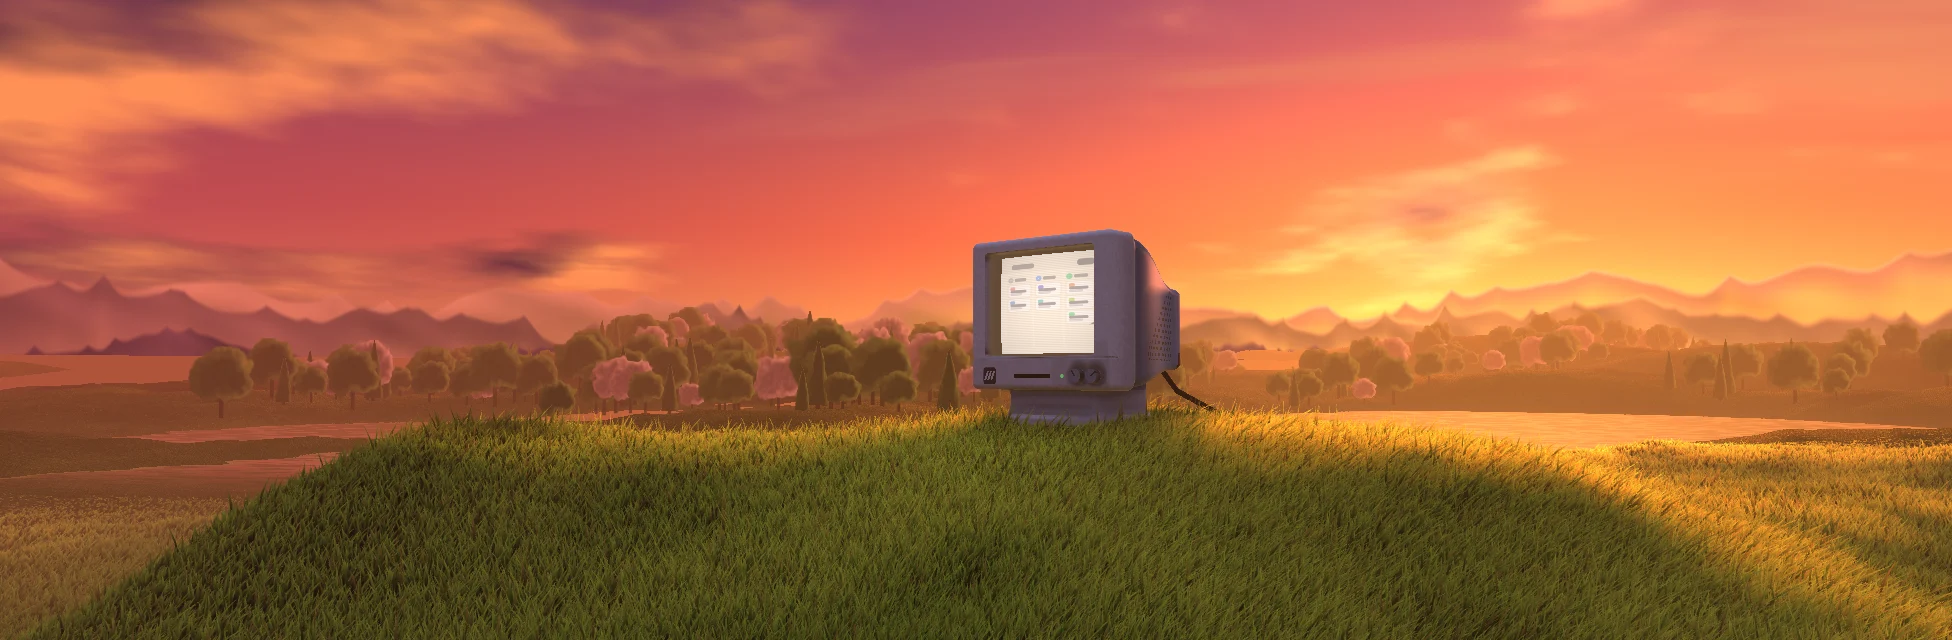
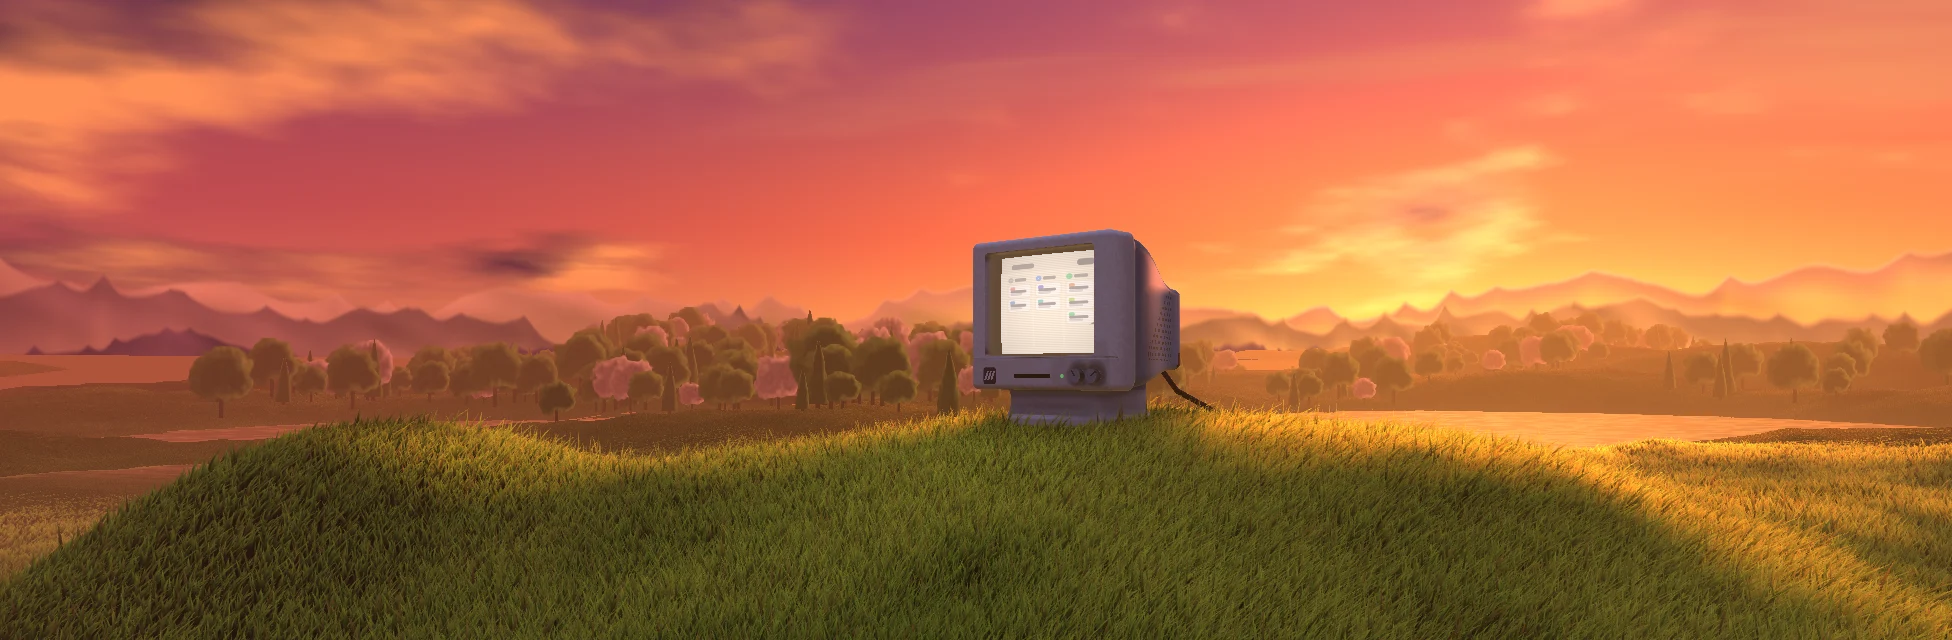
Acceso: la hierba de verdad crece sobre la imagen de espera en vez de fundirse con ella
La imagen de espera y la escena no pueden coincidir brizna a brizna, y el
fundido enseñaba dos hierbas distintas a la vez. Ahora la imagen se desvanece
por debajo de la hierba, que sale del suelo como un frente desde el ordenador.
Las imágenes se regeneran con el cerezo en una posición más habitual (-1.12),
para que la loma y la vaguada coincidan con las de la escena.

diff --git a/src/views/auth-scene.js b/src/views/auth-scene.js
@@ -1262,6 +1262,9 @@
     'layout(location = 3) in vec4 aB1;',
     'layout(location = 4) in vec4 aB2;',
     'uniform float uWide;',
+    /* Cuánto ha crecido la hierba (0..1): al relevar a la imagen de espera sale del suelo en */
+    /* vez de aparecer de golpe encima de la hierba de la imagen. */
+    'uniform float uGrow;',
     /* Raíz (altura), alto de la brizna y hacia dónde cae. */
     'out vec4 oA;',
     /* Sombra, contacto, racha y mata. */
@@ -1284,6 +1287,10 @@
     '  float rA = aInst.z, rB = aInst.w;',
     '  vec3 root = vec3(r0.x, aB0.x, r0.y);',
     '  float h = aB0.y, clump = aB1.x, dist = aB1.w;',
+    /* Sale por zonas, del ordenador hacia fuera, y no toda a la vez: unas briznas sueltas o a */
+    /* medio crecer enseñan el pie, que es oscuro, y el relevo se veía como un césped ralo y */
+    /* apagado tapando el de la imagen. Detrás del frente la hierba ya está entera. */
+    '  h *= smoothstep(0., .2, uGrow * 1.3 - min(length(r0) / 30., 1.) - .1 * fract(rB * 5.3));',
     /* De lejos las briznas se ensanchan para seguir cubriendo con menos. */
     '  float w = (.0046 + .0032 * fract(rB * 3.7)) * (1. + dist * .13) * uWide;',
 
@@ -1885,7 +1892,7 @@
     function finish(prog){
       if(!prog || !gl.getProgramParameter(prog, gl.LINK_STATUS)) return null;
       const U = {};
-      ['uRes', 'uTime', 'uFocus', 'uNight', 'uDay', 'uDawn', 'uMouse', 'uUI', 'uText', 'uTextW', 'uTree', 'uTreeOn', 'uTreeX', 'uTreeS', 'uWide', 'uFF', 'uFFp', 'uBase', 'uFFLit', 'uSharp', 'uGeo', 'uShade', 'uMode', 'uPetal', 'uPetalA', 'uRaw', 'uPoster', 'uPosterMap', 'uWarp', 'uFade', 'uScene', 'uFly', 'uFlyB'].forEach((n) => { U[n] = gl.getUniformLocation(prog, n); });
+      ['uRes', 'uTime', 'uFocus', 'uNight', 'uDay', 'uDawn', 'uMouse', 'uUI', 'uText', 'uTextW', 'uTree', 'uTreeOn', 'uTreeX', 'uTreeS', 'uWide', 'uGrow', 'uFF', 'uFFp', 'uBase', 'uFFLit', 'uSharp', 'uGeo', 'uShade', 'uMode', 'uPetal', 'uPetalA', 'uRaw', 'uPoster', 'uPosterMap', 'uWarp', 'uFade', 'uScene', 'uFly', 'uFlyB'].forEach((n) => { U[n] = gl.getUniformLocation(prog, n); });
       return {prog, U};
     }
     /* Lo que se enseña mientras tanto (ver WAIT), en dos programas que se piden antes que nada
@@ -2343,6 +2350,7 @@
         }
         uniforms(sim, time);
         gl.uniform1f(sim.U.uWide, 1 / Math.sqrt(q.part));
+        gl.uniform1f(sim.U.uGrow, grow);
         store(sim, simVao, simBuf);
       }
 
@@ -2403,6 +2411,14 @@
       gl.disable(gl.BLEND);
       gl.depthMask(true);
 
+      /* El relevo de la imagen de espera: va aquí, bajo la hierba, que crece encima mientras la
+         imagen se va (ver loop). */
+      if(cover > 0){
+        drawPoster(cover);
+        gl.enable(gl.DEPTH_TEST);
+        gl.depthFunc(gl.LESS);
+      }
+
       /* 4. La hierba, segundo paso: las cintas, delante o detrás de lo ya pintado según su
          profundidad. */
       if(passes & 4){
@@ -2434,6 +2450,12 @@
        cuánto tapa todavía a la escena (1 hasta que llega; después se funde y se suelta). */
     const posterTex = gl.createTexture();
     let posterOk = false, posterDark = null, posterBusy = false, veil = 1, veilFrom = 0;
+    /* El relevo. La imagen y la escena no pueden ser iguales brizna a brizna (otra calidad, otro
+       instante del viento): fundir una sobre otra enseñaba dos hierbas distintas a la vez. Así
+       que la imagen se desvanece por debajo (cover: cuánto tapa aún) y la hierba de verdad
+       crece encima (grow, ver uGrow en GRASS_SIM). Mientras se mide el equipo la hierba va
+       entera: si no, la medida saldría más ligera de lo que es. */
+    let cover = 0, grow = 1;
     function loadPoster(){
       const dark = isDark();
       if(!kit.waits || posterBusy || posterDark === dark || veil <= 0) return;
@@ -2675,14 +2697,17 @@
         heavy = false;
         last = now;
         if(!shown){ shown = true; canvas.classList.add('is-on'); }
-        draw(now);
-        /* La escena ya está: la imagen de espera se funde sobre ella y se suelta. */
+        /* La escena ya está: la imagen de espera se va por debajo de la hierba, que crece, y
+           se suelta. */
         if(veil > 0){
           if(!veilFrom) veilFrom = now;
-          veil = posterOk && kit.hold() && !isStill() ? Math.max(0, 1 - (now - veilFrom) / 900) : 0;
-          if(veil > 0) drawPoster(veil * veil * (3 - 2 * veil));
-          else gl.deleteTexture(posterTex);
+          veil = posterOk && kit.hold() && !isStill() ? Math.max(0, 1 - (now - veilFrom) / 1500) : 0;
         }
+        cover = veil * veil * (3 - 2 * veil);
+        grow = veilFrom && !isStill() ? Math.min(1, (now - veilFrom) / 1100) : 1;
+        draw(now);
+        cover = 0;
+        if(veil <= 0 && veilFrom >= 0){ gl.deleteTexture(posterTex); veilFrom = -1; }
         if(!isStill()){
           /* Pesado: la tarjeta sigue con él pasada la mayor parte del tiempo del fotograma. */
           const flag = mark = gl.fenceSync(gl.SYNC_GPU_COMMANDS_COMPLETE, 0);

diff --git a/src/boot.js b/src/boot.js
@@ -44,7 +44,7 @@
      ordenador, en alturas. Las usa también auth-scene.js (POSTER) y hay que cambiarlas si se
      regeneran las imágenes con otro encuadre. */
   var poster = window.__authPoster = {
-    w:1952, h:640, fx:1088, fy:301, tree:-0.94,
+    w:1952, h:640, fx:1088, fy:301, tree:-1.12,
     night:'../assets/img/acceso-noche.webp', dusk:'../assets/img/acceso-tarde.webp',
     /* El color del cielo en el borde de arriba de cada imagen: en ventanas donde la imagen no
        llega hasta arriba, la franja que falta se rellena con él. */

diff --git a/CONTEXT.md b/CONTEXT.md
@@ -331,7 +331,7 @@ Encima de todo va el selector de **proyectos**: cada proyecto es un tablero inde
   - **Tercera vuelta de rendimiento (oct-2026, misma rama; el dueño: «todavía puedes optimizarlo mucho más para que cargue antes y sea muchísimo más fluido»).** Medido en el portátil **con batería** (la mitad de rápido que enchufado), antes y después en las mismas condiciones: calidad máxima a 1920×1080, de **93 ms a ~45 ms** por fotograma; el escalón 3, de **21 ms a ~12 ms**; compilación en frío de todos los programas, de **7,3 s a 3,9 s**. Cuatro cambios. **1) La escena ya no se repinta entera en cada fotograma.** Las partes (`FRAG` con `PART` 1 cielo, 2 suelo, 3 carcasa del ordenador, más `GLASS`, la pantalla) pintan en una **imagen intermedia** (`sceneTex`, RGBA16F, unidad 5; en la transparencia va cuánto lago hay en el píxel) **sin cerezo, halo ni revelado**; eso lo pone `COMP` en cada fotograma, que es barato. La carcasa y la pantalla se pintan siempre (son pocos píxeles); **el cielo y el suelo, por turnos, uno en cada fotograma** (`turn`), salvo que haya que rehacerlo todo (cambio de tamaño, movimiento reducido, `poster()`). El final de cada píxel (`TAIL`: cerezo, halo, `post`, profundidad) y la función del cerezo (`TREE_FN`) son trozos compartidos entre `COMP` y el programa único de reserva (`PART 0`, sin `CACHE`). **2) La pantalla del ordenador va en su propio programa** (`GLASS`, con `SCREEN`: la misma cuenta directa que usa la imagen de espera, así que el relevo es idéntico); qué píxeles son cristal lo calcula `BAKE` y va en el segundo canal de `uShade` (ahora RG16F). El tablero era lo que más tardaba en compilarse. **3) La hierba guarda lo que no cambia de cada brizna** (`GRASS_BASE` → `baseBuf`: altura de la raíz, alto, sombra del terreno y del ordenador, contacto, dos ruidos fijos y la bruma); solo se rehace al cambiar el tamaño, al subir de escalón (briznas nuevas) o al moverse el sol; `GRASS_SIM` hace en cada fotograma solo el viento, el cursor y las luces. **4) 60 fotogramas por segundo si el equipo puede** (`rate`, `fluid`): `measure()` busca primero ir a 60 sin bajar del cuarto escalón (se nota más la fluidez que el detalle); si no da, a 30 en el mejor escalón que quepa. Si después va justo, primero baja de 60 a 30 y solo luego de escalón; mientras cambia el tema no se cuentan los fotogramas pesados. `state().cost` trae ahora `[escalón, fotogramas por segundo, ms]` por ronda y `quality(escalón, 60)` fuerza los 60. Con batería el portátil se queda en el escalón 3 a 30; **enchufado, y en el equipo del dueño, debería ir a 60: no está medido** (mirar `Workhub.views.authScene.state()`). Las imágenes de espera se regeneraron con el motor nuevo. **Ojo si se toca:** el orden de la lista de programas (`queue` en `boot`, `kit.linked` en `setup`) tiene que coincidir; y lo que pinte una parte no puede depender de lo que pintó otra en el mismo fotograma (van a destiempo).
   - **Cuarta vuelta (oct-2026, misma rama, PR #131; el dueño pidió «optimízalo aún más» y se fue a descansar: hecho sin supervisión, solo cambios que no alteran la imagen).** Medido en el portátil, enchufado, a 1920×1080: calidad máxima de **46,5 ms a ~26 ms** por fotograma, escalón 2 de 17,3 a ~12,5 y escalón 3 de 9,9 a ~7. Con eso **el portátil ya elige solo el escalón 3 a 60 fotogramas por segundo** a 1920×1080 y 1600×900 (antes, 30), y aguanta los 60 durante un cambio de tema. **1) La hierba se pinta de cerca a lejos** (`nearFirst()`): las briznas de cada escalón se ordenan por distancia antes de subirlas (`sown`), y la tarjeta descarta sin colorear lo que queda tapado. Era el mayor coste que quedaba: **la mitad del trabajo de la hierba era colorear briznas que luego no se veían** (de 21 a 11 ms en el escalón 0). La imagen es la misma: qué brizna tapa a cuál lo decide la profundidad, no el orden; y cada escalón sigue pintando las mismas briznas. Ojo al medir: `bench(n, 4)` (solo hierba) no vale para esto, porque sin la escena debajo la profundidad descarta casi todo; hay que restar `bench(n, 15) - bench(n, 11)`. **2) El cerezo** no calcula el viento fuera de su imagen (casi toda la pantalla). **3) Las luciérnagas** se llevan a la pantalla en el JavaScript (`flies2d()`, `uFly`/`uFlyB`) en vez de en cada píxel, y lo de delante no escribe donde no hay nada. **4) La carcasa del ordenador** se repinta en fotogramas alternos, con el cielo (la pantalla, siempre). **5)** `weight()` reajustado con las medidas nuevas. **Probado y descartado:** briznas de dos tramos para todas (no cambia el tiempo), quitar el ruido por píxel de la hierba (tampoco) y **quitar el suavizado de bordes (`antialias`): ahorra un 25 %, pero cambia el aspecto de la hierba y no se puede decidir después de crear el contexto; no se ha tocado** (si algún día se quiere, es el siguiente ahorro grande que queda). Lo que más pesa ahora a calidad máxima es `COMP` y la hierba, a partes iguales.
   - **La imagen de espera, desde el primer fotograma (oct-2026, misma rama; el dueño: «al principio un segundo sale sin nada, no sale ni la imagen»).** La imagen de fondo no se ponía hasta que cargaban los ~150 scripts de la página y Firebase decía si había sesión: hasta entonces, negro. Ahora la pone **`src/boot.js`**, que se ejecuta en el `<head>` antes de pintar nada: si todo apunta a que va a salir el acceso (hay Firebase, no consta sesión en `workhub_session` y no se entró como invitado) pone la clase **`auth-early`** en `<html>`, pide la imagen del tema que toque y la coloca en cuanto la página tiene la tarjeta. `auth-early` (regla en `auth.css`) **deja ver la pantalla de acceso aunque siga con `hidden`, pero sin la tarjeta ni lo demás** (`visibility:hidden`, así ocupan su sitio y se sabe dónde irá el ordenador); `AuthView` quita la clase en cuanto se sabe qué enseñar (`showSignIn`, `showVerify`, `showLoadError`, `showAppSkeleton`, `hide`). Las medidas de la imagen y la cuenta de dónde cae el ordenador **viven ahora en `boot.js` (`window.__authPoster`: `w`, `h`, `fx`, `fy`, `tree`, `focus()`, `paint()`)** y `auth-scene.js` las lee de ahí (`POSTER`, `layoutOf`): un solo sitio. La franja que la imagen no cubre por arriba en algunas ventanas se rellena con el color de su borde (`nightTop`, `duskTop`: **si se regeneran las imágenes hay que volver a medirlos**). Medido: la imagen queda puesta **antes del primer pintado** (a los 150–550 ms, con el primer pintado a los 300–700) y el formulario sale igual que antes (~0,65–0,9 s). **Probado y descartado:** arrancar también el motor 3D en ese momento; adelantaba la escena, pero **retrasaba el formulario medio segundo** (la compilación compite con la carga de la página), así que el motor sigue esperando a que la tarjeta se vea (`screen.hidden`, no `away()`). Si la tarjeta cambia de sitio al aparecer, la escena se recoloca (`relayout`). Caso raro a conocer: quien tenga sesión pero no la marca `workhub_session` verá un instante el fondo del acceso antes de la aplicación.
-  - **Agua en la esquina y cerezo en la espera (oct-2026, misma rama; el dueño: «abajo a la izquierda aparece como agua en vez de que sea todo hierba» y «el ordenador se muestra muy pequeño» en pantallas de 1080p).** **El agua:** el terreno queda por debajo del nivel del lago (`WATER_Y`) también al pie de la colina, pegado a la cámara, y en ventanas anchas (un monitor de 1080p con la barra del navegador, ~1920×940) asomaba un charco en la esquina de abajo a la izquierda; se notaba sobre todo en la imagen de espera, que no llevaba cerezo que lo tapara. Ahora **solo hay agua de la colina hacia el fondo** (`shore` se anula con `smoothstep(0., 6., pw.z)` en la parte del suelo de `FRAG`); lo demás es hierba. **No volver a dejar agua cerca de la cámara.** **El cerezo:** la imagen de espera se veía vacía, un paisaje ancho con el ordenador solo; ahora, en cuanto compila su programa con `LIVE`, **`WAIT` pinta también el cerezo**, en su sitio y moviéndose, con el mismo trozo de sombreador que la escena (`TREE_PART`, la primera mitad de `TAIL`). Ahí no se sabe qué terreno hay delante del tronco. **Corregido después (oct-2026; el dueño: «debajo del árbol está pasando algo con el terreno a la hora de cargar»):** la imagen trae la loma del cerezo en un sitio fijo (`POSTER.tree`) y en cada ventana el cerezo cae en otro (`uTreeX`), así que el árbol quedaba plantado fuera de su loma, con todo lo que su imagen trae por debajo del suelo a la vista, y al llegar la escena el terreno cambiaba de forma. Ahora `WAIT` **corre la imagen** (`uWarp`, lo calcula `posterWarp()`): entera a la izquierda del cerezo y cada vez menos hasta `WARP_X1`, antes del ordenador, que no se mueve; y **recorta el pie del cerezo** a la altura a la que lo tapa la hierba (`#ifdef LIVE` en `TREE_PART`). El fondo de CSS que pone `boot.js` antes del lienzo sigue sin correr (no lleva cerezo). Las imágenes se regeneraron. **Sin aclarar:** qué quería decir exactamente con «el ordenador muy pequeño»; en las capturas a 1920×1080 y 1920×940 el ordenador mide lo mismo en la espera y en la escena (~0,28 de la altura de la ventana). Se le ha pedido una captura.
+  - **Agua en la esquina y cerezo en la espera (oct-2026, misma rama; el dueño: «abajo a la izquierda aparece como agua en vez de que sea todo hierba» y «el ordenador se muestra muy pequeño» en pantallas de 1080p).** **El agua:** el terreno queda por debajo del nivel del lago (`WATER_Y`) también al pie de la colina, pegado a la cámara, y en ventanas anchas (un monitor de 1080p con la barra del navegador, ~1920×940) asomaba un charco en la esquina de abajo a la izquierda; se notaba sobre todo en la imagen de espera, que no llevaba cerezo que lo tapara. Ahora **solo hay agua de la colina hacia el fondo** (`shore` se anula con `smoothstep(0., 6., pw.z)` en la parte del suelo de `FRAG`); lo demás es hierba. **No volver a dejar agua cerca de la cámara.** **El cerezo:** la imagen de espera se veía vacía, un paisaje ancho con el ordenador solo; ahora, en cuanto compila su programa con `LIVE`, **`WAIT` pinta también el cerezo**, en su sitio y moviéndose, con el mismo trozo de sombreador que la escena (`TREE_PART`, la primera mitad de `TAIL`). Ahí no se sabe qué terreno hay delante del tronco. **Corregido después (oct-2026; el dueño: «debajo del árbol está pasando algo con el terreno a la hora de cargar»):** la imagen trae la loma del cerezo en un sitio fijo (`POSTER.tree`) y en cada ventana el cerezo cae en otro (`uTreeX`), así que el árbol quedaba plantado fuera de su loma, con todo lo que su imagen trae por debajo del suelo a la vista, y al llegar la escena el terreno cambiaba de forma. Ahora `WAIT` **corre la imagen** (`uWarp`, lo calcula `posterWarp()`): entera a la izquierda del cerezo y cada vez menos hasta `WARP_X1`, antes del ordenador, que no se mueve; y **recorta el pie del cerezo** a la altura a la que lo tapa la hierba (`#ifdef LIVE` en `TREE_PART`). El fondo de CSS que pone `boot.js` antes del lienzo sigue sin correr (no lleva cerezo). **El relevo (mismo día; el dueño: «la foto que pone al principio y lo que renderiza después es distinto», y propuso cargar la hierba poco a poco):** medido en la Iris Xe, sin caché, compilar la hierba es lo de menos (sim 0,11 s, cintas 0,13 s, lo fijo 0,42 s); lo que tarda es la escena (suelo 1,3 s, carcasa 0,9 s, lo que no cambia 0,9 s, pantalla 0,6 s, cielo 0,5 s) y el propio `WAIT` con `LIVE` (1 s), así que **no se gana tiempo dejando la hierba para el final**. Lo que sí se ha cambiado es cómo se pasa de una a otra: antes la imagen se fundía *encima* de la escena y se veían dos hierbas distintas a la vez; ahora **la imagen se desvanece por debajo de la hierba** (`cover`, se pinta en `draw()` entre el arbolado y la hierba, 1,5 s) **y la hierba de verdad sale del suelo como un frente que avanza desde el ordenador** (`grow` → `uGrow` en `GRASS_SIM`, 1,1 s). **No hacerla crecer toda a la vez ni brizna a brizna al azar:** las briznas sueltas o a medio crecer enseñan el pie, que es oscuro, y el relevo daba un fogonazo de césped ralo y apagado. Mientras se mide el equipo `grow` vale 1 (si no, la medida sale ligera). Además **las imágenes se regeneraron con el cerezo en `tree:-1.12`** (antes −0,94): en ventanas de escritorio el cerezo cae entre −0,94 y −1,36 alturas del ordenador, y con −0,94 la imagen no tenía la vaguada que hay entre la loma del cerezo y la del ordenador; ahora `uWarp` corrige como mucho ±0,24. Para regenerarlas: `authScene.hour(20)` antes de `poster(false)`, que la de la tarde sale con la hora que sea. Las imágenes se regeneraron. **Sin aclarar:** qué quería decir exactamente con «el ordenador muy pequeño»; en las capturas a 1920×1080 y 1920×940 el ordenador mide lo mismo en la espera y en la escena (~0,28 de la altura de la ventana). Se le ha pedido una captura.
   - **Cómo comprobarla.** Las capturas de siempre corren sin tarjeta gráfica (SwiftShader): compila y pinta, pero muy despacio, y **no muestra los fallos de movimiento**. Para eso hay que lanzar Edge con la GPU real (`--use-gl=angle --use-angle=d3d11`) y comparar los píxeles del lienzo entre fotogramas. **Lección: «no se mueve» se mide, no se deduce de una captura fija.**
   - **Mejoras de la escena (oct-2026, rama `claude/acceso-escena`, diez puntos que pidió el dueño).** 1) **Hierba de noche** apagada y fría (antes, verde encendido) y la luz de la pantalla sobre ella, más contenida. 2) **El ordenador es un 22 % mayor** (`CS` en `COMMON`: todo él está en sus propias medidas y las distancias de `computer()` se multiplican por `CS`) y en su tablero una tarea recorre las tres columnas. **Carcasa rediseñada a petición del dueño («hay partes que no están unidas»):** sigue las fotos de monitores de tubo que mandó de referencia: **marco frontal** claro y, detrás, **una carcasa azul que se estrecha hacia atrás** (una caja deformada; antes eran dos cajas con un corte de lado a lado, que las dejaba separadas), **rejilla de puntos en abanico** en los costados y **el pie pegado de arriba abajo**: un **zócalo macizo** que entra en la carcasa y baja hasta el suelo, con un plato redondo alrededor (un cuello fino entre dos piezas dejaba una rendija a los lados por la que se veía el fondo: **el pie no debe tener huecos que dejen ver a través**). El trazado del ordenador da 96 pasos y, si se acaban rozando una superficie, la da por tocada. La junta bajo la pantalla va grabada, los mandos llevan muesca y la insignia son tres barras limpias. El hueco de la pantalla tiene que llegar más hondo que el cristal (si quedan a ras, el borde de la imagen sale ondulado). **No volver a cortar la carcasa con una losa ni a hacerla con dos cajas: el escalón en sombra se lee como una separación.** 3) **La pantalla acompaña al formulario** (`authScene.signal()`, uniforme `uUI`): al escribir sale un cuadro de acceso con **el correo (o el nombre) letra a letra** (lo pidió el dueño; se pinta en un lienzo 2D aparte y se sube como textura, `uText`; si no cabe se ve el final) y **la contraseña como puntos: de ella solo se pasa cuántos caracteres hay, nunca cuáles**, una barra que va y viene mientras se espera, un golpe rojo si falla y, al entrar, una marca verde que ilumina la hierba; `AuthView.celebrate()` deja esa señal 850 ms **mientras se cargan los datos** (`AuthController.enter`), sin sumar espera si tardan más. 4) **Luciérnagas** más pequeñas y nítidas; solo dos pasan pegadas a la cámara. 5) **Cerezo más nítido** con una máscara de enfoque en el sombreador (`treeAt`); **no se ha vuelto a renderizar el modelo** (no hay Blender ni los guiones; sigue pendiente la licencia). 6) **Cielo**: las nubes pasan y se rehacen, las estrellas titilan, la bruma se desliza entre las sierras. 7) **Cambio de tema**: el paso de atardecer a noche dura lo mismo en cualquier equipo (avanza por tiempo, no por fotograma), y estrellas y luciérnagas salen cuando la noche ya está entrada. 8) **Momento del día:** el sombreador sabe pintar también amanecer y pleno día (`pal()`, `uDay`, `uDawn`), pero **el dueño prefirió el atardecer como modo claro**: claro = atardecer y oscuro = noche, siempre; los otros momentos solo se ven con `Workhub.views.authScene.hour(13)` en la consola. **No volver a ligarlo a la hora real sin que lo pida.** 9) **La hierba se aparta del cursor** (`uMouse`, solo con ratón; la cámara sigue fija). 10) **Rendimiento:** sin tarjeta gráfica (SwiftShader y similares) o con ahorro de datos se pinta **una sola imagen, pequeña, y se deja quieta**; los equipos con poco procesador o memoria empiezan un escalón por debajo; si ni en la calidad más baja llega, la escena se queda quieta (`frozen`). `authScene.state()`, `bench()` y `quality()` sirven para medir. Medido en el equipo del dueño (RTX 4070, 1920×1000, con `readPixels` para forzar a la tarjeta): **~25 ms por fotograma, igual que antes de los cambios (23–26 ms)**; en la calidad más baja, 8–10 ms. Sin tarjeta gráfica el formulario aparece en 1,5 s y responde. **Sigue sin medirse en un equipo modesto de verdad ni en un móvil.**
   - **Remates (oct-2026, misma rama).** El **logo es el básico en blanco y negro** en todas partes (lo pidió el dueño: «el color lo eligen los usuarios»): la tarjeta de acceso usa `.brand-mark` (fondo y barras con el acento elegido), `favicon.svg` son tres barras blancas y los PNG (`icon-192`, `icon-512`, `icon-maskable-512`, `favicon-32`, `apple-touch-icon`) se regeneran con `node scripts/make-icons.js`; **`og-image.png` sigue con el logo anterior**. El ordenador va algo a la derecha del centro del panel de cristal (`layout()`, 0,575). El cerezo entra poco a poco cuando llega su imagen (`treeFade`). **El botón de tema de esta pantalla no usa `themeSwitch`** (el cambio «en círculo» con View Transitions congela la página en una foto mientras dura y la escena se paraba, lo vio el dueño): con la escena en marcha se aplica el tema sin más, el cielo pasa solo de atardecer a noche y la tarjeta cambia de color con una transición (`.auth-screen.is-theming`). De noche la carcasa lleva luz de relleno y un filo frío para que no sea una silueta. El aviso «sin conexión con el acceso» (`showLoadError`) tiene el mismo aspecto que los pasos de correo.
